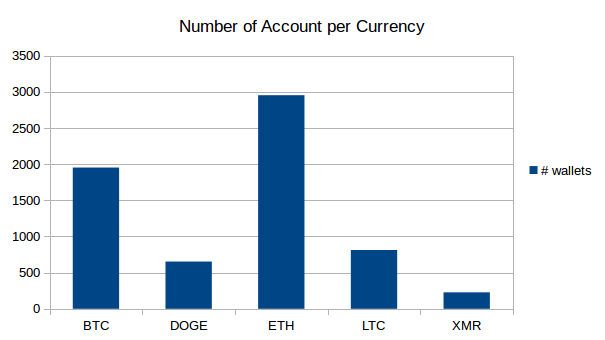
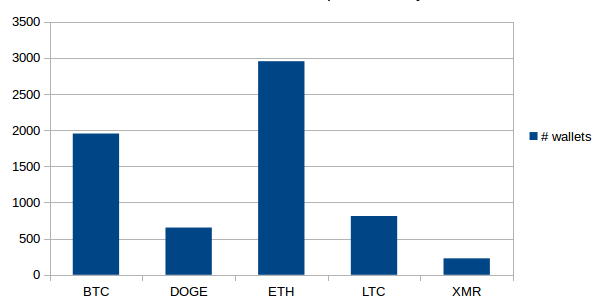
Version of the paper for feedback

diff --git a/res/sections/29-Results.tex b/res/sections/29-Results.tex
@@ -81,26 +81,43 @@ attest that they had at least one transaction. We found out \startingBTC{}
 Bitcoin addresses, \startingLTC{} Litecoin addresses, \startingDOGE{}
 addresses, \startingETH{} addresses and finally \startingXMR{} Monero
 addresses. This is depicted in Figure~\ref{fig:numberaccountcurrency}.
-\begin{figure}[H]
+
+
+\begin{figure*}
 \centering
-\includegraphics[width=\columnwidth]{number_account_currency}
+\begin{subfigure}[t]{0.3\textwidth}
+\centering
+\includegraphics[width=.9\textwidth, height=3.5cm]{number_account_currency}
 \caption{Number of wallets retrieved for each currency}
 \label{fig:numberaccountcurrency}
-\end{figure}
-
+\end{subfigure}
+~
+\begin{subfigure}[t]{0.3\textwidth}
+\includegraphics[width=.9\textwidth, height=3.5cm]{number_inferred_DOGE_LTC}
+\caption{Comparison between the number of wallets before and after clustering
+for DOGE and LTC}
+\label{fig:dogeltcclustered}
+\end{subfigure}
+~
+\begin{subfigure}[t]{0.3\textwidth}
+\centering
+\includegraphics[width=.9\textwidth, height=3.5cm]{numwall}
+\caption{Distribution of the number of wallets per account}
+\label{fig:numwall}
+\end{subfigure}
+\caption{Results of our study}
+\end{figure*}
 As we expected the currency on which, potentially, we could retrieve more data
 is still Bitcoin. The number of Monero wallets found is \startingXMR{} and it
 could be so low even because it is an altcoin not so used and it was born in
 order to preserve users privacy, so people could be more aware to advertise it.
-
 From those wallets \accountGithub{} came by searching Github, \accountTwitter{}
 from Twitter. Exploiting Github search we found other \accountBitcointalk{}
 accounts that are related to \url{bitcointalk.org} forum, because one of the
 repository listed them. Searchcode did not give us a useful improvement
 because we were able only to retrieve other 3 addresses (\accountGitlab{} from
 Gitlab and \accountBitbucket{} from Bitbucket) that were not already present in
-the Github's wallets. 
-
+the Github's wallets.
 After that we ran the clustering procedure \emph{only} on Litecoin and Dogecoin
 addresses. We excluded Bitcoin wallets due to time constraints.
 For further details we
@@ -108,41 +125,22 @@ refer to Section~\ref{sec:issues}. Ethereum and Monero were not considered
 because the first does not allow multiple-input transactions, so it is not
 possible to cluster wallets as for the other, instead the latter has private
 transactions, so it is not possible to analyze its transaction history. 
-
 After the clustering, we increase the number of addresses discovered to
 \clusteringNumberAllWallets{}, with \clusteringNumberWalletsNotService{}
 wallets, without considering known services.
-
 In Figure~\ref{fig:dogeltcclustered} is depicted the increase of the number of
 wallets found.
-\begin{figure}[H]
-\centering
-\includegraphics[width=\columnwidth]{number_inferred_DOGE_LTC}
-\caption{Comparison between the number of wallets before and after clustering
-for DOGE and LTC}
-\label{fig:dogeltcclustered}
-\end{figure}
-
 Addresses are connected to \accountNumber{} accounts and on average we had
 \avarageAccount{} addresses per person.
-
 The distribution of the number of wallets per account is represented in
 Figure~\ref{fig:numwall}. We considered only accounts with at most 28 related
 wallets by setting a maximum limit on the number of
 wallets to spare time.
 Therefore if a wallet had more than 29 wallets we could not assert whether
 the account had actually 29 addresses or more.
-\begin{figure}[H]
-\centering
-\includegraphics[width=\columnwidth]{numwall}
-\caption{Distribution of the number of wallets per account}
-\label{fig:numwall}
-\end{figure}
-
 We were able to connect Facebook or Linkedin accounts to some of the wallets.
 In particular the latter social network is the most interesting, because people
-are more likely to share sensitive data on that because of its aim. 
-
+are more likely to share sensitive data on that because of its aim.
 Finally, \accountRelated{} accounts in our database are strongly related with
 at least another one: this means that one of their addresses are used together
 as input in the same transaction. During the analysis of those relations we

diff --git a/res/sections/30-Issues.tex b/res/sections/30-Issues.tex
@@ -7,10 +7,8 @@ addresses and Ethereum wallet public keys have the same format. We filtered out
 the majority of false positives with \texttt{address\_checker} module. We spent
 a good deal of time cleaning the database manually. Finally, we kept only about
 the 45\% of the original addresses. 
-
 Another issue is the fact that we had at our dispose addresses
 of well-known services only for Bitcoin and not for the other altcoins.
-
 We clustered only Litecoin and Dogecoin addresses for the following reasons.
 First of all the clustering phase using Web APIs is extremely slow, because of
 their rate limits: in fact Dogecoin clustering took about one week, Litecoin

diff --git a/res/sections/26-Nduja.tex b/res/sections/26-Nduja.tex
@@ -25,9 +25,9 @@ in order to retrieve the clusters.
 % possible to correlate addresses and plot graphs.
 \end{enumerate*}
 
-\begin{figure}[t]
+\begin{figure}
 \centering
-\includegraphics[scale=0.22]{db}
+\includegraphics[width=\columnwidth]{db}
 \caption{Nduja high level architecture}
 \label{fig:architecture}
 \end{figure}

diff --git a/config/package.tex b/config/package.tex
@@ -239,7 +239,7 @@
 %\usepackage{subcaption}
 %\usepackage{subfloat}
 %\usepackage{subfigure}
-\usepackage{subfig}
+%\usepackage{subfig}
 
 \usepackage{hyperref}
 
@@ -259,6 +259,6 @@
 
 % Inline enumeration
 \usepackage[inline]{enumitem}
-
+\usepackage{subcaption}
 
 \usepackage[backend=biber, citestyle = numeric]{biblatex}
